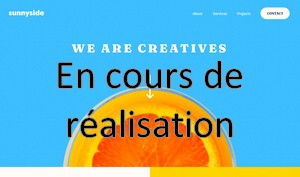
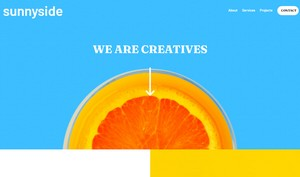
Changement CSS

diff --git a/index.html b/index.html
@@ -166,8 +166,8 @@
 							<p>Projet Wordpress de ma formation IFOCOP <br> Site factice de boutique de jeux en tout genres</p>
 						</div>
 					</a>
-					<a class="lien-realisation">
-						<div class="bloc a-venir">
+					<a href="https://safiya-trafeh.fr/sunnyside" target="_blank" class="lien-realisation">
+						<div class="bloc">
 							<h5>Landing Page Sunnyside Agency</h5>
 							<p>Challenge FrontEnd Mentor <br> Landing page factice d'agence web créative</p>
 							<img id="sunnyside" src="images/sunnyside.jpg" alt="aperçu site sunnyside agency">

diff --git a/css/style.css b/css/style.css
@@ -102,9 +102,9 @@ nav ul li{
 #divphoto{
     position: absolute;
     left: 14%;
-    width: 180px;
+    width: 30vmin;
     top: 18%;
-    height: 180px;
+    height: 30vmin;
 
 }
 #photo{
